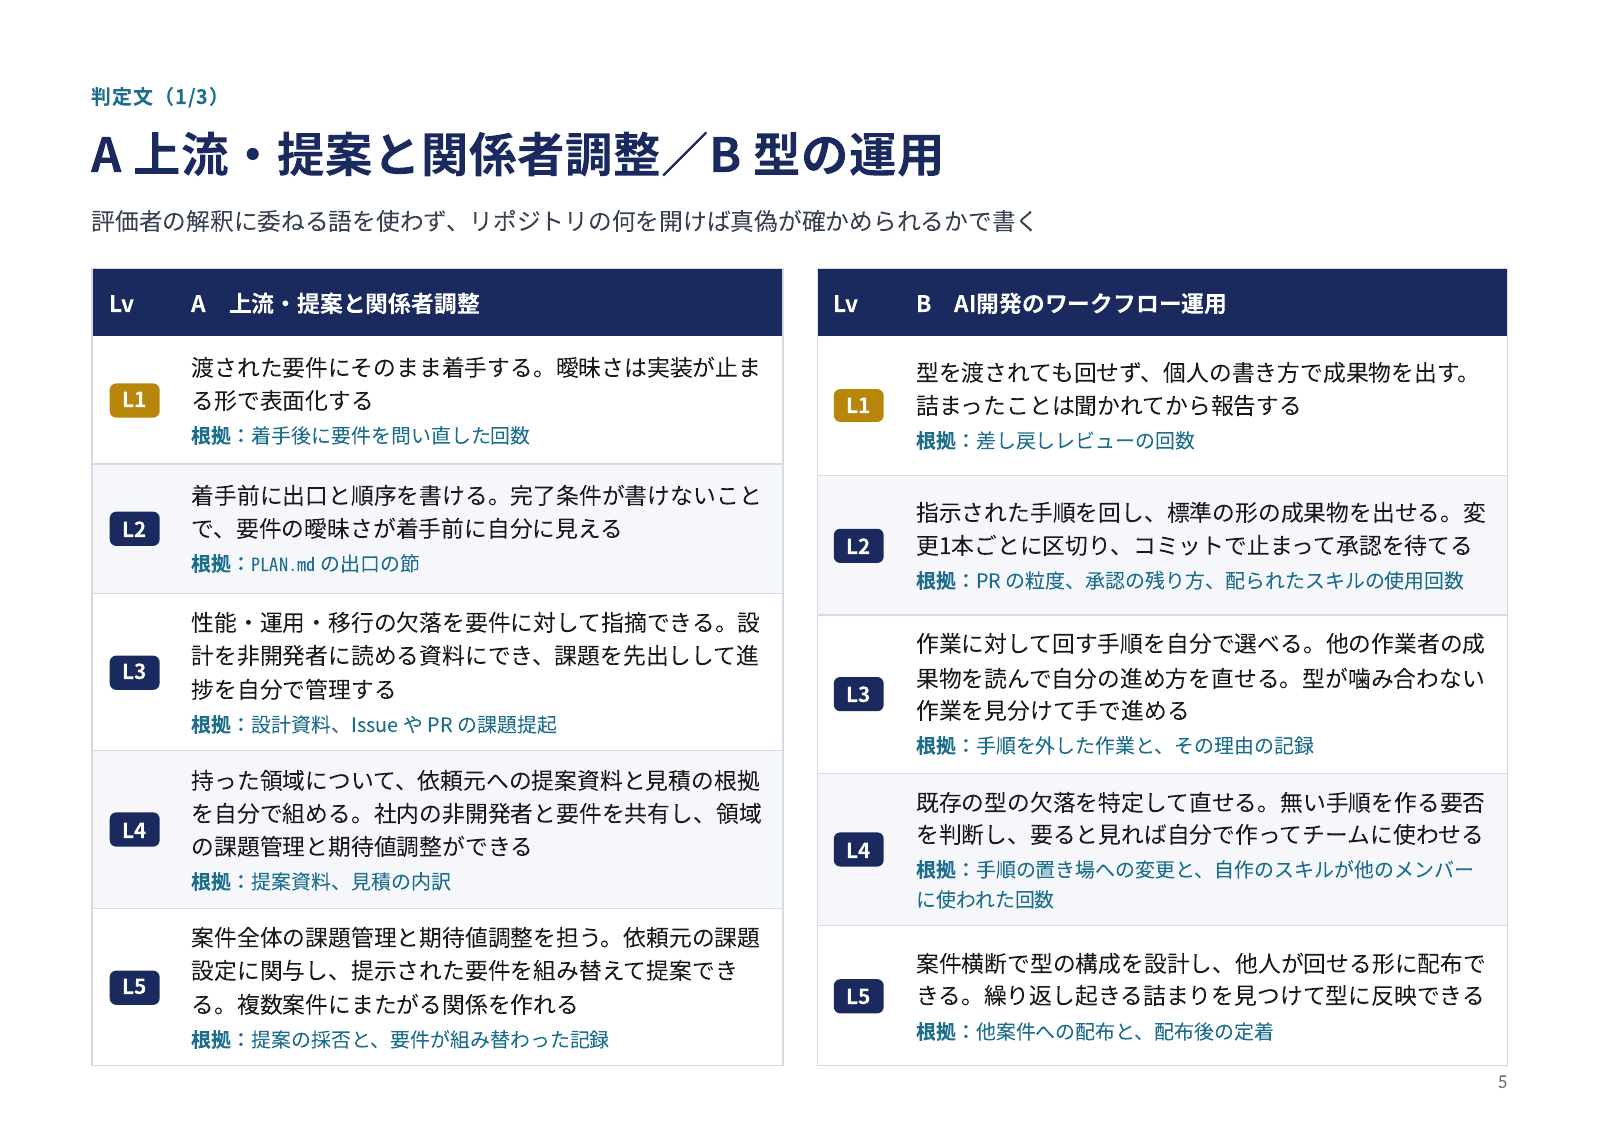
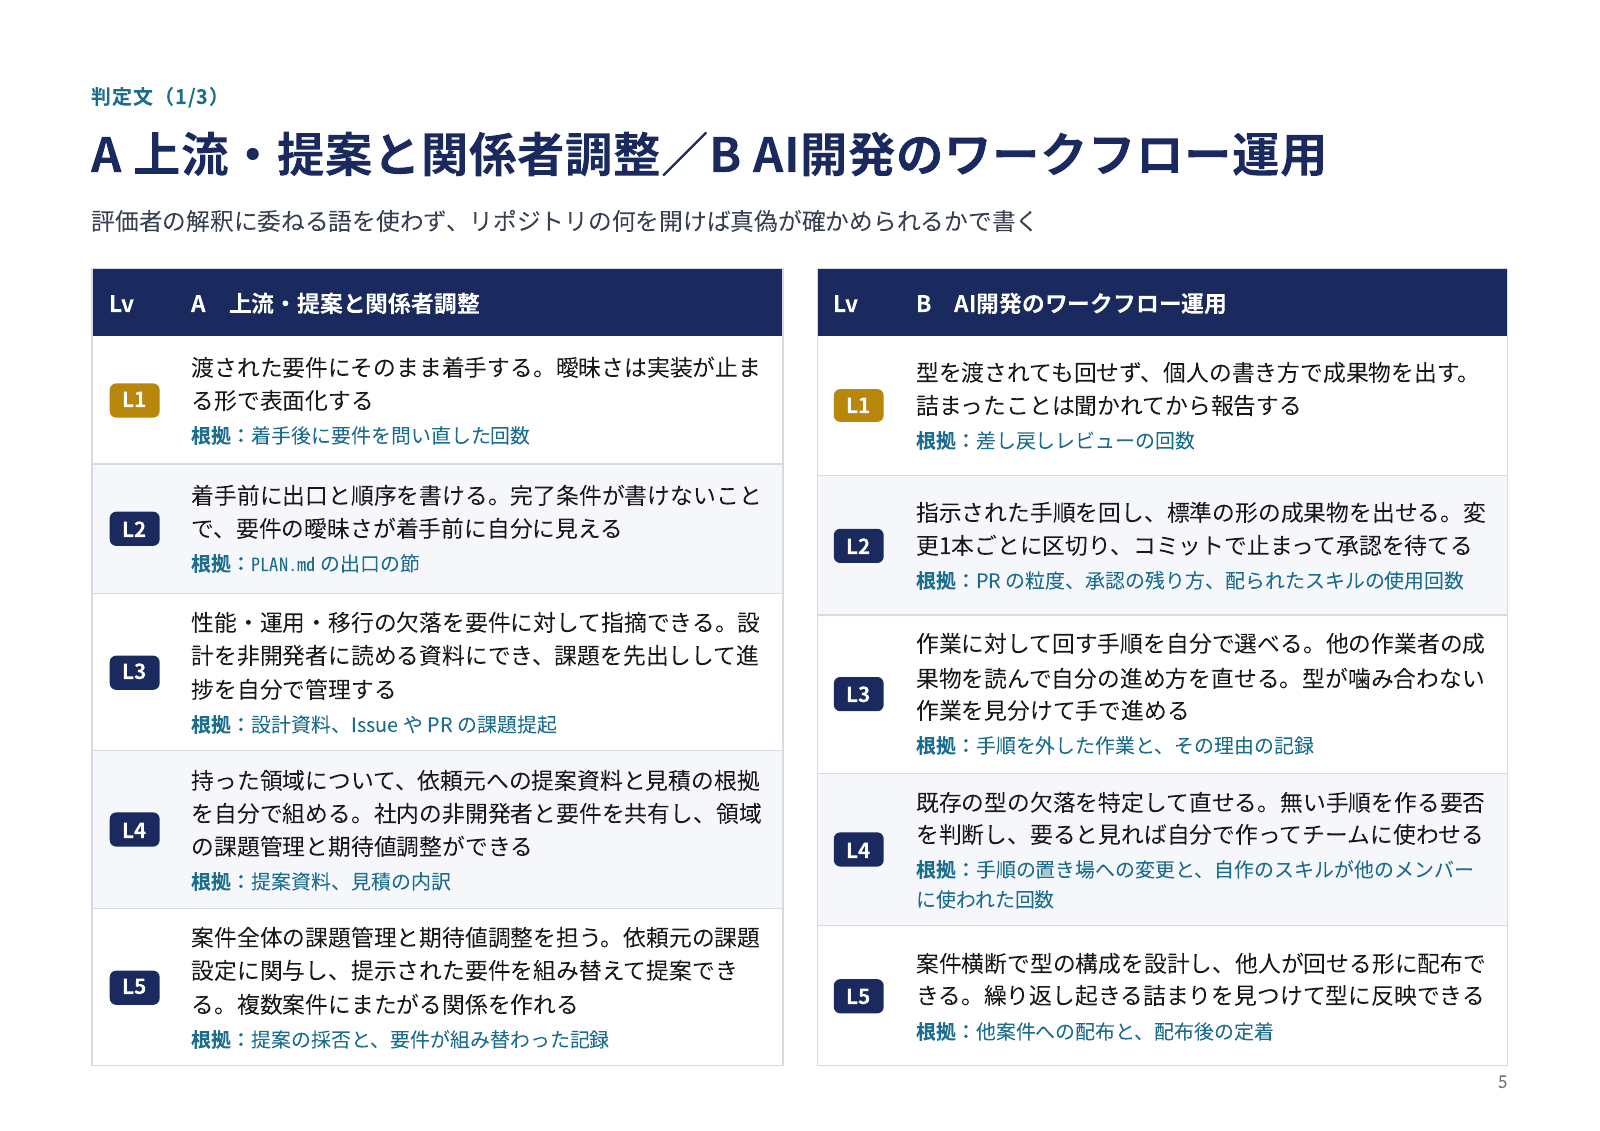
docs: Use the renamed axis B in the ladder slide 5 heading (#56)

Changed region(s): [[0.4688, 0.0928, 0.8438, 0.1547]]

diff --git a/ladder/slides.html b/ladder/slides.html
@@ -214,7 +214,7 @@ li::before{ content:""; position:absolute; left:.4mm; top:calc(.5lh - .75mm);
 <section class="page">
   <div class="head">
     <div class="sec">判定文（1/3）</div>
-    <h1>A 上流・提案と関係者調整／B 型の運用</h1>
+    <h1>A 上流・提案と関係者調整／B AI開発のワークフロー運用</h1>
     <div class="sub">評価者の解釈に委ねる語を使わず、リポジトリの何を開けば真偽が確かめられるかで書く</div>
   </div>
   <div class="body">

diff --git a/ladder/README.md b/ladder/README.md
@@ -21,7 +21,7 @@
 
 ![4. 依頼元に対して、どこまで一人で任せられるかで段階を区切る](slides/04.png)
 
-![5. 判定文（1/3） A 上流・提案と関係者調整／B 型の運用](slides/05.png)
+![5. 判定文（1/3） A 上流・提案と関係者調整／B AI開発のワークフロー運用](slides/05.png)
 
 ![6. 判定文（2/3） C ドメイン理解／D 検証・品質保証](slides/06.png)
 
